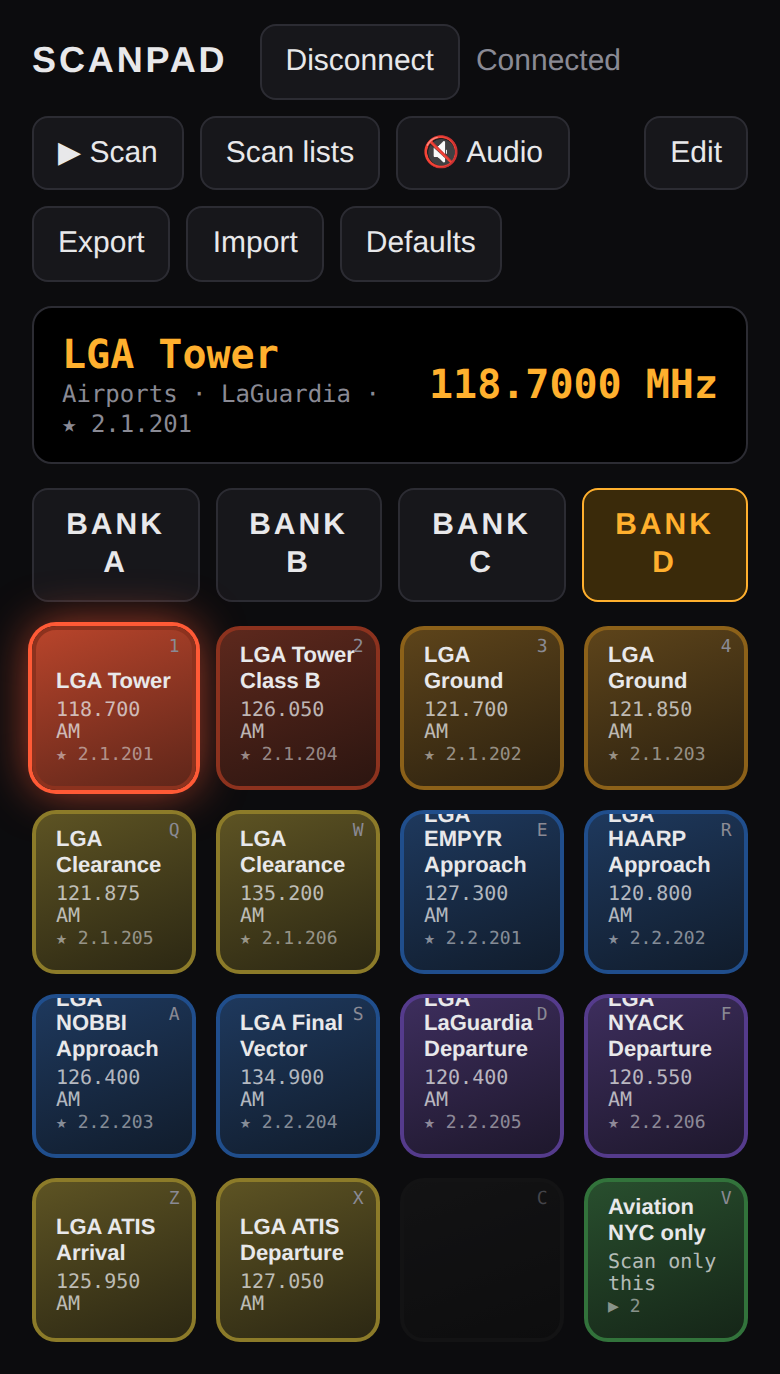
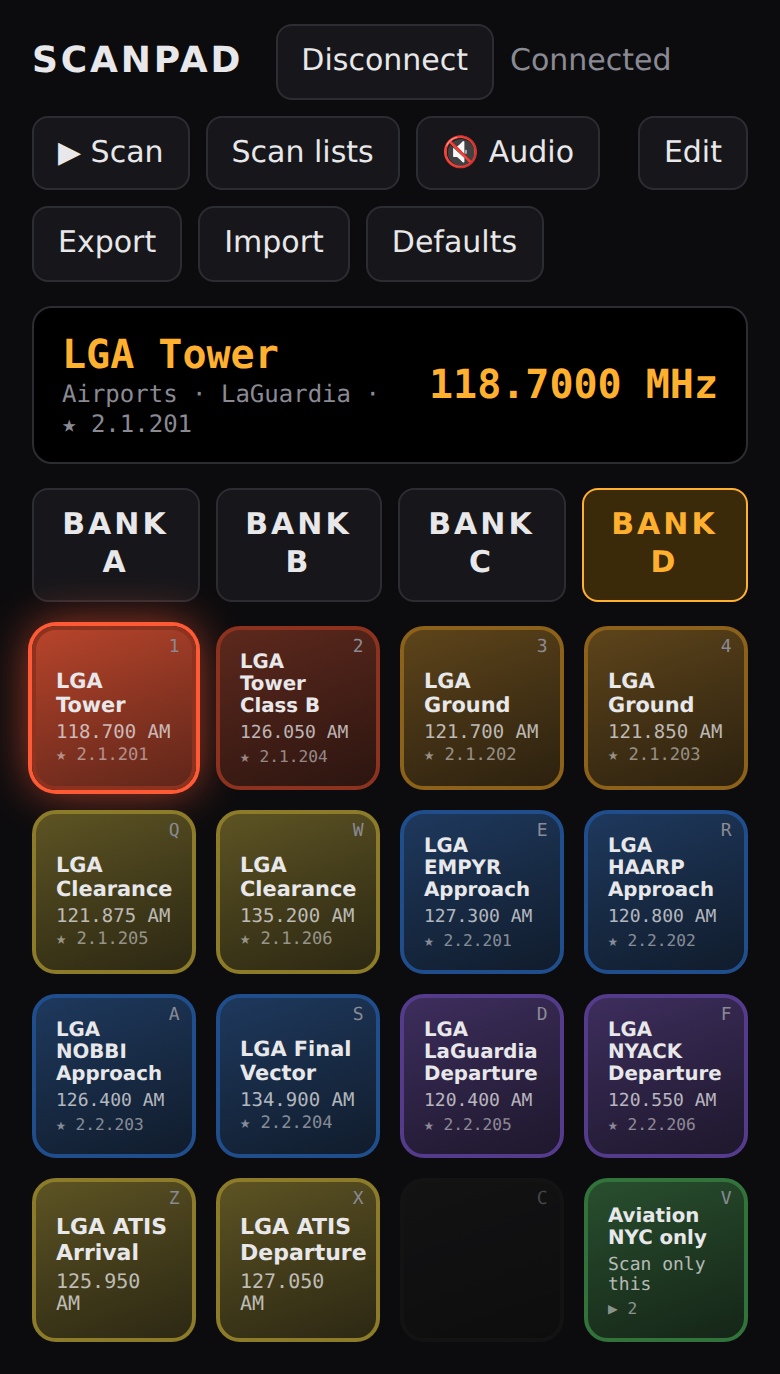
Shrink a pad's text when a long name won't fit
Pad text sits at the bottom of the pad, so a name that wrapped to a
third line ran off the top on a phone (265 of 739 pads on a 390-pt-wide
screen). Each pad now shrinks its text until it fits, only when its
text or size changes. Measured: no pad clips in any set at phone,
landscape or desktop sizes. Refresh the README screenshots to match.

diff --git a/index.html b/index.html
@@ -37,10 +37,11 @@
   .pad:active { transform: scale(.96); }
   .pad.empty { --c: #333; opacity: .45; }
   .pad.live { box-shadow: 0 0 0 2px var(--c), 0 0 24px color-mix(in srgb, var(--c) 70%, transparent); background: linear-gradient(160deg, color-mix(in srgb, var(--c) 70%, #111), color-mix(in srgb, var(--c) 35%, #0a0a0a)); }
-  /* Pad text scales with the pad (cqmin = 1% of its shorter side). */
-  .pad .name { font-weight: 700; font-size: clamp(11px, 12cqmin, 26px); line-height: 1.15; overflow-wrap: break-word; }
-  .pad .freq { font: clamp(10px, 9.5cqmin, 20px) ui-monospace, Menlo, Consolas, monospace; color: color-mix(in srgb, var(--text) 75%, transparent); margin-top: 2px; }
-  .pad .tag { font: clamp(9px, 8cqmin, 17px) ui-monospace, Menlo, Consolas, monospace; color: color-mix(in srgb, var(--text) 55%, transparent); margin-top: 1px; }
+  /* Pad text scales with the pad (cqmin = 1% of its shorter side), and --fit
+     shrinks it further on a pad whose text wouldn't fit (see fitPad). */
+  .pad .name { font-weight: 700; font-size: calc(clamp(11px, 12cqmin, 26px) * var(--fit, 1)); line-height: 1.15; overflow-wrap: break-word; }
+  .pad .freq { font: calc(clamp(10px, 9.5cqmin, 20px) * var(--fit, 1)) ui-monospace, Menlo, Consolas, monospace; color: color-mix(in srgb, var(--text) 75%, transparent); margin-top: 2px; }
+  .pad .tag { font: calc(clamp(9px, 8cqmin, 17px) * var(--fit, 1)) ui-monospace, Menlo, Consolas, monospace; color: color-mix(in srgb, var(--text) 55%, transparent); margin-top: 1px; }
   .pad .key { position: absolute; top: 6%; right: 8%; font: clamp(9px, 7cqmin, 15px) ui-monospace, monospace; color: var(--dim); }
   body.editing .pad { outline: 1px dashed var(--dim); outline-offset: -6px; }
   dialog { background: var(--panel); color: var(--text); border: 1px solid var(--line); border-radius: 12px; padding: 16px; width: min(360px, calc(100vw - 32px)); }
@@ -350,7 +351,21 @@ function renderGrid() {
       el.querySelector('.tag').textContent = p && p.kind === 'tag' ? `★ ${p.tag}` : '';
     }
   });
+  [...$('grid').children].forEach(fitPad);
 }
+
+// A long name on a small pad: shrink the pad's text until it fits. The text
+// sits at the bottom of the pad, so what doesn't fit runs off the top.
+function fitPad(el) {
+  const key = `${el.textContent}|${el.clientWidth}x${el.clientHeight}`;
+  if (el.fitKey === key) return;  // the screen is read up to 4 times a second
+  el.fitKey = key;
+  el.style.removeProperty('--fit');
+  const over = () => el.getBoundingClientRect().top + el.clientTop + parseFloat(getComputedStyle(el).paddingTop)
+    - el.querySelector('.name').getBoundingClientRect().top;
+  for (let f = 0.95; f > 0.55 && over() > 0.5; f -= 0.05) el.style.setProperty('--fit', f.toFixed(2));
+}
+new ResizeObserver(() => [...$('grid').children].forEach(fitPad)).observe($('grid'));
 
 // A pad is live when the radio shows its tag or its frequency.
 function isLive(p) {
